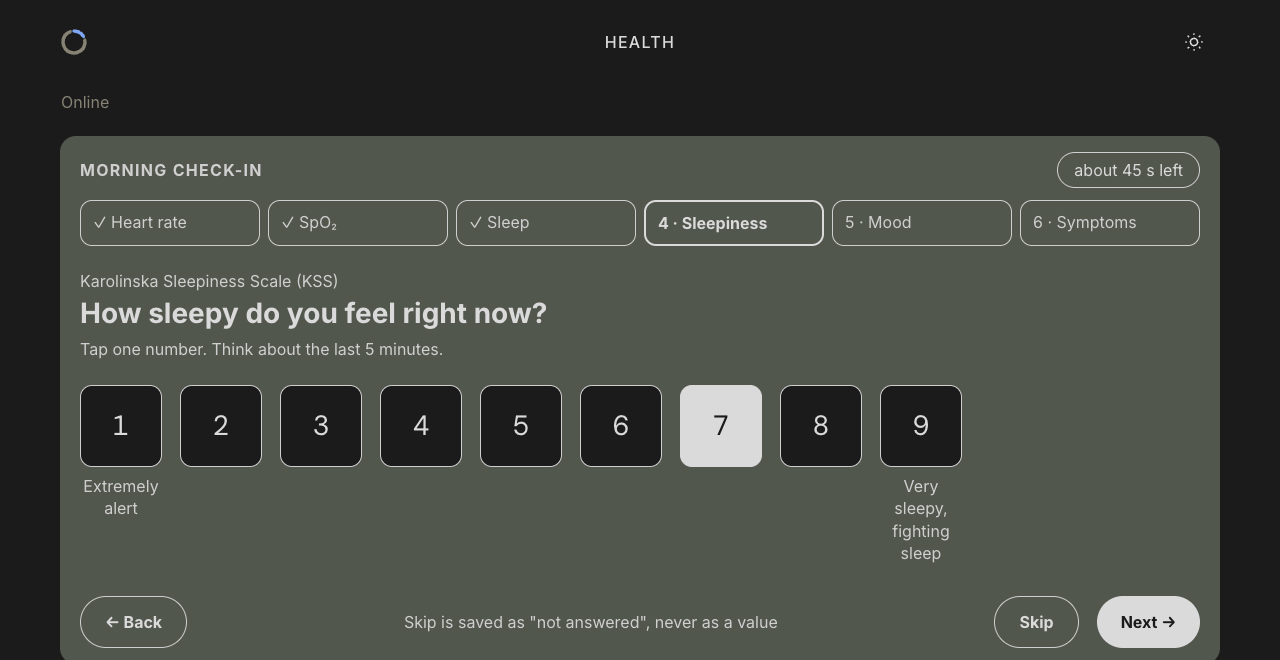
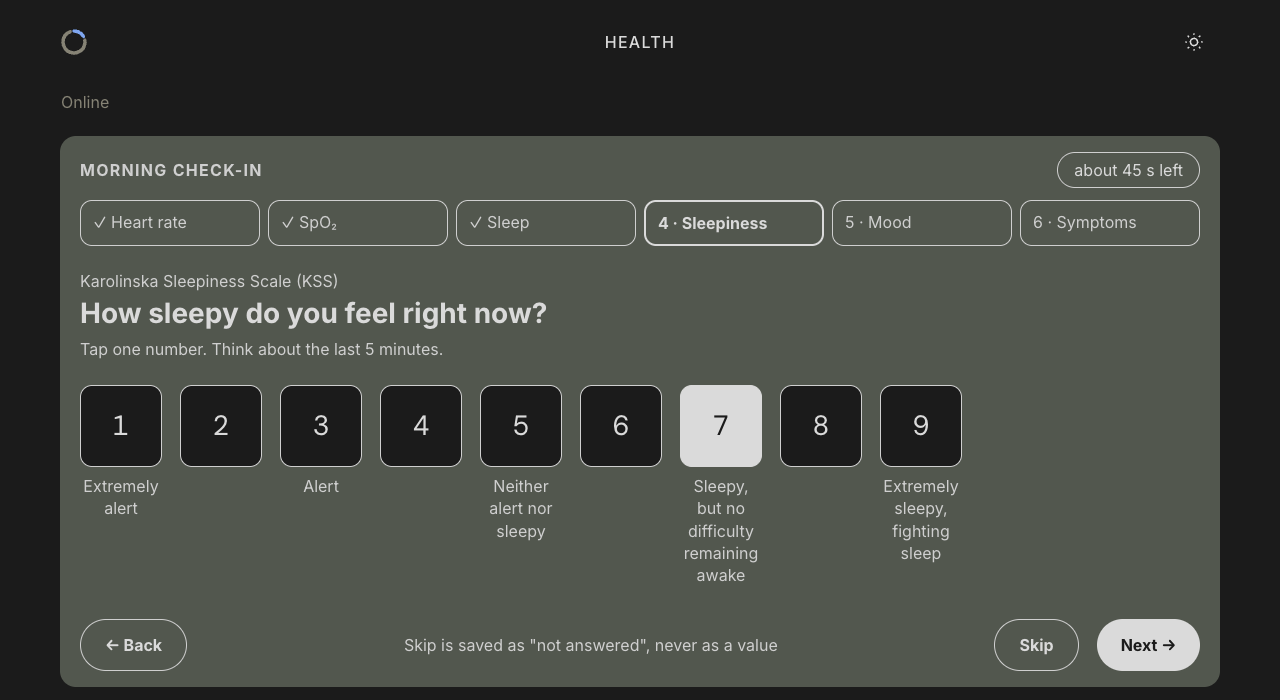
docs(mock): KSS anchors on 1, 3, 5, 7 and 9 from S56 (#26)

diff --git a/docs/features/26-check-in-questionnaire.mock.html b/docs/features/26-check-in-questionnaire.mock.html
@@ -57,7 +57,7 @@ ${instrument ? `<p class="step-instrument muted">${instrument}</p>` : ''}<h3 cla
 const scale = (max, pressed, anchors) => `<ol class="scale" style="--count:${max}">${Array.from({ length: max }, (_, i) => i + 1).map((n) => `<li><button aria-pressed="${n === pressed}">${n}</button>${anchors[n] ? `<span>${anchors[n]}</span>` : ''}</li>`).join('')}</ol>`
 
 const states = {
-  kss: () => screen(3, [true, true, true], { instrument: 'Karolinska Sleepiness Scale (KSS)', prompt: 'How sleepy do you feel right now?', hint: 'Tap one number. Think about the last 5 minutes.', body: scale(9, 7, { 1: 'Extremely alert', 9: 'Very sleepy, fighting sleep' }) }),
+  kss: () => screen(3, [true, true, true], { instrument: 'Karolinska Sleepiness Scale (KSS)', prompt: 'How sleepy do you feel right now?', hint: 'Tap one number. Think about the last 5 minutes.', body: scale(9, 7, { 1: 'Extremely alert', 3: 'Alert', 5: 'Neither alert nor sleepy', 7: 'Sleepy, but no difficulty remaining awake', 9: 'Extremely sleepy, fighting sleep' }) }),
   mood: () => screen(4, [true, true, false, true], { prompt: 'How is your mood today?', hint: 'Tap one number.', body: scale(5, 4, { 1: 'Very low', 5: 'Very good' }) }),
   symptoms: () => screen(5, [true, true, true, true, true], { prompt: 'Any of these symptoms today?', hint: 'Tap all that apply.', body: `<ul class="choices">${['Headache', 'Congestion', 'Rash', 'Neck or face swelling', 'Back pain', 'None of these'].map((s) => `<li><button aria-pressed="${s === 'Headache'}">${s}</button></li>`).join('')}</ul>` }),
   error: () => screen(0, [], { prompt: 'What is your heart rate?', hint: 'Type the value from your device, or skip.', body: `<label class="field-tile"><span class="field-tile__top"><input type="number" value="300">${I.hr}</span><span class="tile-label">Heart rate <span class="tile-label__suffix">/ bpm</span></span></label><p class="field-error">${I.info}<span>Enter a whole number from 20 to 250 bpm, or skip.</span></p>` }),
